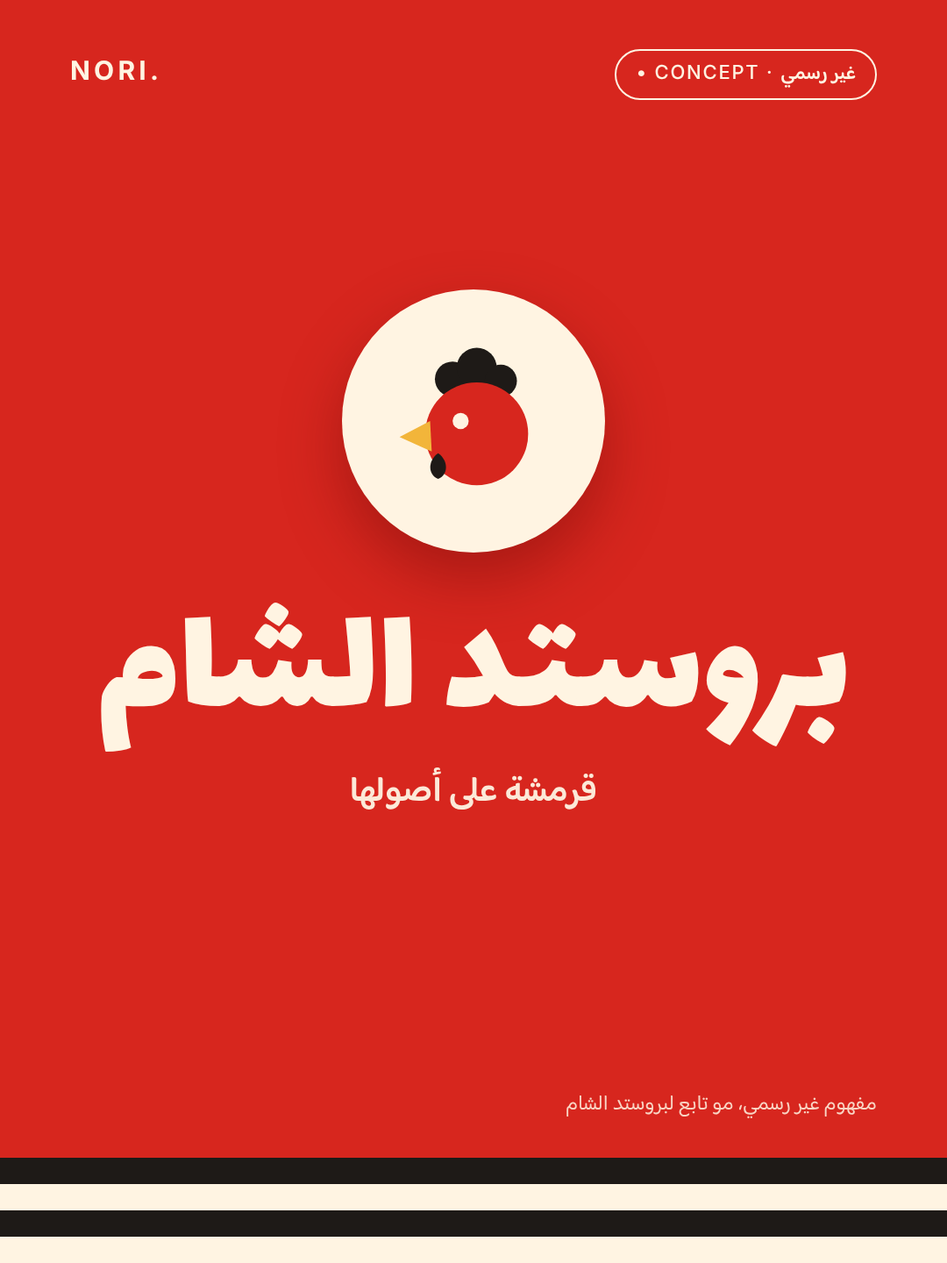
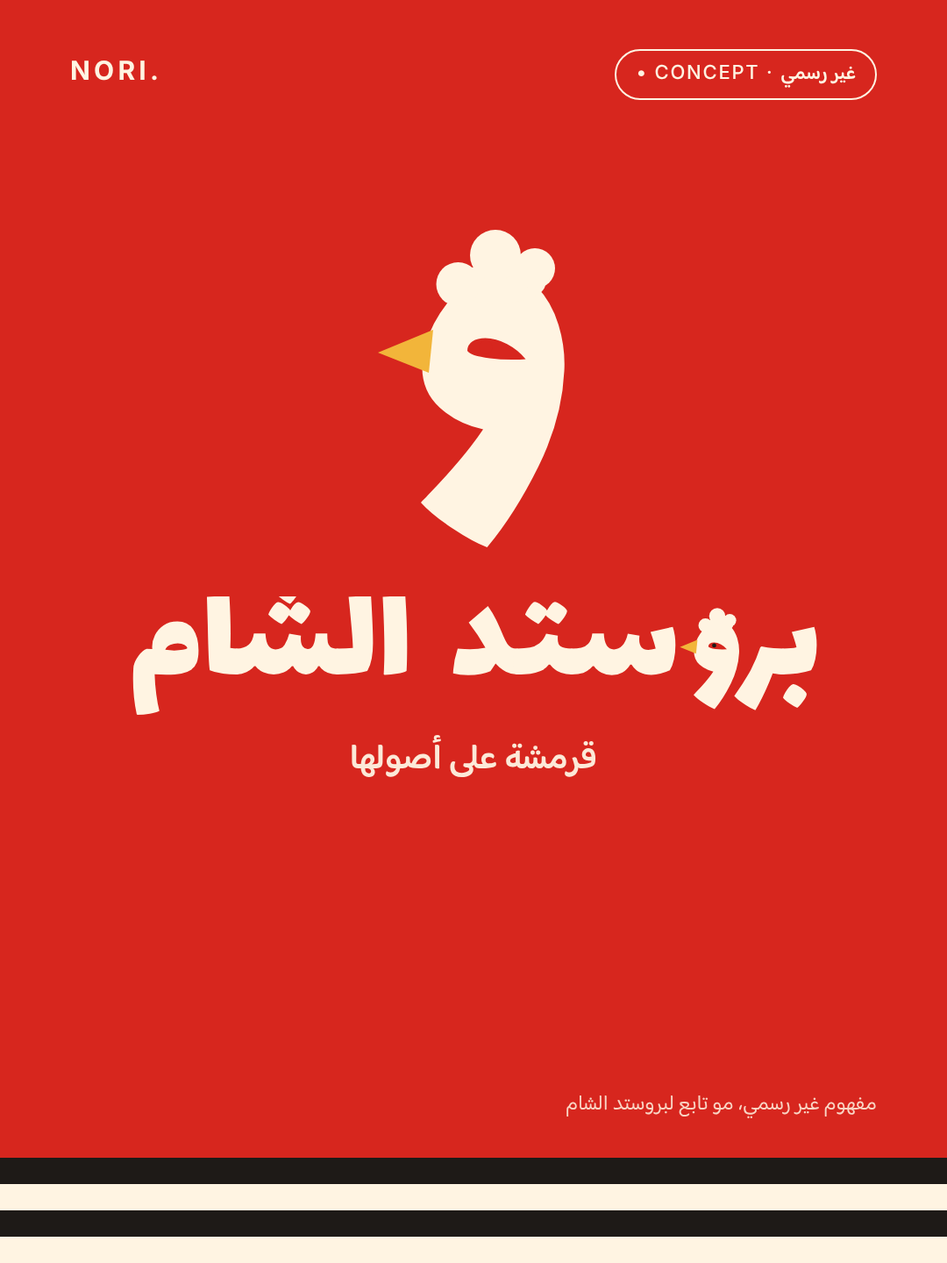
Broasted Al Sham concept v2: rooster from the waw letter
Claude-Session: https://claude.ai/code/session_01HCCxgE6Hx3Y9eVtsL6TtgU

Changed region(s): [[0.0917, 0.1875, 0.9167, 0.5938], [0.3667, 0.5938, 0.6417, 0.6562]]

diff --git a/concepts/2026-11-05-broasted-alsham/slides.html b/concepts/2026-11-05-broasted-alsham/slides.html
@@ -34,10 +34,8 @@ h2{position:absolute;top:140px;right:80px;left:80px;font:400 84px/1.15 Lalezar}
 
 <section class="slide" id="s1" style="background:var(--red);color:var(--cream)">
  <div class="nori">NORI.</div><div class="pill">• CONCEPT · <b>غير رسمي</b></div>
- <div style="position:absolute;top:330px;left:0;right:0;display:flex;flex-direction:column;align-items:center">
-  <div style="width:300px;height:300px;border-radius:50%;background:var(--cream);display:grid;place-items:center;box-shadow:0 30px 70px rgba(80,0,0,.35)">
-   <svg style="width:220px;height:220px;color:var(--red);--comb:var(--char);--eye:var(--cream)"><use href="#rooster"/></svg></div>
-  <div class="wm" style="margin-top:50px">بروستد الشام</div>
+ <div style="position:absolute;top:250px;left:0;right:0;display:flex;flex-direction:column;align-items:center">
+  <svg viewBox="-110 -500 500 780" width="250" height="390" style="display:block"><g transform="scale(1,-1)"><path d="M347 154Q342 45 288.0 -64.0Q234 -173 171 -248Q139 -236 91.5 -204.5Q44 -173 20 -146Q23 -142 27.5 -138.0Q32 -134 36 -129Q120 -42 162 21Q103 34 63.0 70.5Q23 107 23 162Q23 211 50.0 262.5Q77 314 118.5 347.5Q160 381 201 381Q250 381 284.0 346.5Q318 312 334.0 259.0Q350 206 347 154ZM227 180Q249 180 259 181Q242 202 216.5 215.5Q191 229 167 229Q149 229 137.5 221.5Q126 214 126 200Q132 189 177 183Q201 180 227 180Z" fill="#FFF4E2"/><ellipse cx="192" cy="352" rx="112" ry="44" fill="#FFF4E2"/><circle cx="105" cy="352" r="50" fill="#FFF4E2"/><circle cx="190" cy="418" r="58" fill="#FFF4E2"/><circle cx="280" cy="388" r="46" fill="#FFF4E2"/><path d="M48 248 L-78 196 L38 150 Z" fill="#F2B53A"/><circle cx="168" cy="208" r="15" fill="#D7261E"/></g></svg><div style="margin-top:40px"><svg viewBox="-180 -560 5147 900" width="820" height="143" style="display:block"><g transform="scale(1,-1)"><path d="M500 173Q500 119 487.0 85.5Q474 52 446 33Q419 14 377.0 6.0Q335 -2 270 -2Q232 -2 185 1Q187 -70 196.5 -141.0Q206 -212 219 -262Q197 -274 150.5 -281.5Q104 -289 61 -289L56 -285Q30 -163 30 -31Q30 22 34 61Q41 95 70.0 135.0Q99 175 128 184L168 182Q167 188 167 200Q167 241 187.5 282.5Q208 324 249.0 352.0Q290 380 348 380Q423 380 461.5 323.5Q500 267 500 173ZM420 189Q417 202 398.5 212.5Q380 223 351 223Q323 223 296.5 213.0Q270 203 261 177Q291 172 326 172Q360 172 387.5 177.0Q415 182 420 189Z" transform="translate(-80,0)" fill="#FFF4E2"/><path d="M271 93Q271 45 265.0 22.5Q259 0 244 0Q189 0 137.5 7.0Q86 14 51 29Q42 65 36 354L30 557L191 566Q200 417 200 292Q200 254 198 190Q223 186 244 186Q260 186 265.5 163.0Q271 140 271 93Z" transform="translate(450,0)" fill="#FFF4E2"/><path d="M750 93Q750 45 744.0 22.5Q738 0 723 0Q633 0 594 60H585Q570 31 546.5 15.5Q523 0 497 0Q470 0 445.0 15.5Q420 31 405 60H396Q373 31 338.5 15.5Q304 0 265 0Q226 0 192.0 15.0Q158 30 135 60H126Q104 33 70.5 16.5Q37 0 0 0Q-15 0 -21.0 22.5Q-27 45 -27 93Q-27 140 -21.5 163.0Q-16 186 0 186Q109 186 123 294H206Q210 231 228.0 205.5Q246 180 278 180Q322 180 343.5 212.5Q365 245 377 292L461 279Q460 271 460 257Q460 220 473.5 201.0Q487 182 509 182Q561 182 566 294H650Q650 251 654.0 229.5Q658 208 673.5 197.0Q689 186 723 186Q739 186 744.5 163.0Q750 140 750 93ZM291 570Q294 582 306.0 603.0Q318 624 332.5 640.0Q347 656 358 656Q374 656 406.5 633.0Q439 610 442 597Q444 583 421.0 550.0Q398 517 382 506Q364 514 334.0 535.0Q304 556 291 570ZM465 362Q448 369 419.0 388.5Q390 408 374 424Q364 406 348.0 387.5Q332 369 322 362Q303 370 271.5 392.0Q240 414 227 429Q232 449 255.5 482.5Q279 516 295 519Q309 522 342.5 499.0Q376 476 384 460Q397 484 413.0 501.5Q429 519 441 519Q458 519 491.5 494.5Q525 470 528 456Q530 441 506.0 407.0Q482 373 465 362Z" transform="translate(694,0)" fill="#FFF4E2"/><path d="M255 223Q255 164 246.0 115.0Q237 66 214 25Q145 3 0 0Q-15 0 -21.0 22.5Q-27 45 -27 93Q-27 140 -21.5 163.0Q-16 186 0 186Q66 186 111 190Q109 250 101.5 333.0Q94 416 86 498L80 557L241 566Q255 332 255 223Z" transform="translate(1417,0)" fill="#FFF4E2"/><path d="M37 2Q42 82 42 168Q42 329 30 557L192 566Q205 374 205 202Q205 93 201 25Q180 13 134.0 5.5Q88 -2 43 -3Z" transform="translate(1712,0)" fill="#FFF4E2"/><path d="M517 93Q517 45 511.0 22.5Q505 0 490 0Q451 0 410.5 19.5Q370 39 335 78Q323 59 298 23Q272 11 229.5 3.0Q187 -5 138 -5Q77 -5 30 8Q34 100 63 186Q115 181 152 181Q211 181 262 192Q208 288 142 373L280 490Q316 439 338.5 393.0Q361 347 391 275Q407 238 419.0 220.0Q431 202 447.0 194.0Q463 186 490 186Q506 186 511.5 163.0Q517 140 517 93Z" transform="translate(2217,0)" fill="#FFF4E2"/><path d="M418 93Q418 45 412.0 22.5Q406 0 391 0Q289 0 236 70H227Q206 40 168 25Q131 10 95.0 5.0Q59 0 0 0Q-15 0 -21.0 22.5Q-27 45 -27 93Q-27 140 -21.5 163.0Q-16 186 0 186Q55 186 92.0 193.0Q129 200 159.0 223.0Q189 246 208 292L292 279Q291 271 291 257Q291 215 313.0 200.5Q335 186 391 186Q407 186 412.5 163.0Q418 140 418 93ZM295 362Q276 370 247.0 389.5Q218 409 204 425Q194 407 178.0 388.0Q162 369 152 362Q132 371 101.0 392.5Q70 414 57 429Q63 450 87.0 485.0Q111 520 127 520Q143 520 175.0 497.5Q207 475 214 460Q228 485 243.0 502.5Q258 520 270 520Q286 520 320.5 495.5Q355 471 358 457Q360 442 336.0 408.0Q312 374 295 362Z" transform="translate(2707,0)" fill="#FFF4E2"/><path d="M745 210Q745 157 734.5 109.0Q724 61 704 29Q636 -3 572 -3Q525 -3 488.5 15.5Q452 34 430 70H421Q399 34 364.5 14.5Q330 -5 288 -5Q249 -5 214.5 12.5Q180 30 160 60H151Q118 23 83.5 11.5Q49 0 0 0Q-15 0 -21.0 22.5Q-27 45 -27 93Q-27 140 -21.5 163.0Q-16 186 0 186Q41 186 68.5 191.5Q96 197 119.0 220.5Q142 244 148 294H231Q236 180 303 180Q337 180 363.5 207.0Q390 234 403 292L487 279Q485 261 485 253Q485 176 550 176Q571 176 603 185Q594 223 581.5 260.0Q569 297 566 305L726 342Q745 285 745 210Z" transform="translate(3098,0)" fill="#FFF4E2"/><path d="M332 93Q332 45 326.0 22.5Q320 0 305 0Q278 0 231 8Q212 -44 177 -121Q154 -171 132.5 -210.5Q111 -250 106 -256Q69 -243 18 -207Q-24 -178 -45 -154Q15 -72 60 7Q110 96 142 195L151 201Q193 192 237.5 189.0Q282 186 305 186Q321 186 326.5 163.0Q332 140 332 93Z" transform="translate(4310,0)" fill="#FFF4E2"/><path d="M242 211Q242 157 231.5 109.0Q221 61 201 29Q110 0 0 0Q-15 0 -21.0 22.5Q-27 45 -27 93Q-27 140 -21.5 163.0Q-16 186 0 186Q63 186 97 195Q87 237 63 305L224 342Q242 285 242 211ZM169 -137Q173 -152 146.5 -189.5Q120 -227 102 -239Q81 -231 47.0 -207.5Q13 -184 0 -167Q3 -154 15.5 -131.5Q28 -109 44.0 -90.5Q60 -72 72 -70Q83 -68 105.5 -80.0Q128 -92 147.5 -109.5Q167 -127 169 -137Z" transform="translate(4615,0)" fill="#FFF4E2"/><g transform="translate(3953,0)"><path d="M347 154Q342 45 288.0 -64.0Q234 -173 171 -248Q139 -236 91.5 -204.5Q44 -173 20 -146Q23 -142 27.5 -138.0Q32 -134 36 -129Q120 -42 162 21Q103 34 63.0 70.5Q23 107 23 162Q23 211 50.0 262.5Q77 314 118.5 347.5Q160 381 201 381Q250 381 284.0 346.5Q318 312 334.0 259.0Q350 206 347 154ZM227 180Q249 180 259 181Q242 202 216.5 215.5Q191 229 167 229Q149 229 137.5 221.5Q126 214 126 200Q132 189 177 183Q201 180 227 180Z" fill="#FFF4E2"/><ellipse cx="192" cy="352" rx="112" ry="44" fill="#FFF4E2"/><circle cx="105" cy="352" r="50" fill="#FFF4E2"/><circle cx="190" cy="418" r="58" fill="#FFF4E2"/><circle cx="280" cy="388" r="46" fill="#FFF4E2"/><path d="M48 248 L-78 196 L38 150 Z" fill="#F2B53A"/><circle cx="168" cy="208" r="15" fill="#1E1A17"/></g></g></svg></div>
   <div style="font:600 40px Baloo;margin-top:10px;opacity:.95">قرمشة على أصولها</div>
  </div>
  <div style="position:absolute;bottom:160px;right:80px;left:80px;font:400 24px Baloo;opacity:.85">مفهوم غير رسمي، مو تابع لبروستد الشام</div>
@@ -46,16 +44,15 @@ h2{position:absolute;top:140px;right:80px;left:80px;font:400 84px/1.15 Lalezar}
 
 <section class="slide" id="s2">
  <div class="cnt">02 / 05</div><div class="lbl">الرمز والألوان</div>
- <h2>نفس الديك… بس أنظف</h2>
- <div class="sub">الديك اللي يعرفونه الناس باقي. اللي راح هو الزحمة: كان فيه 3 أسطر نص بالعربي والإنجليزي، وصار سطر واحد.</div>
+ <h2>الديك طالع من الواو</h2>
+ <div class="sub">الواو بكلمة «بروستد» شكلها أصلًا راس ديك: العين صارت عينه، والذيل صار الدلّاية. زدنا العرف والمنقار بس. الديك اللي يعرفونه الناس باقي، بس صار جزء من الاسم.</div>
  <div style="position:absolute;top:440px;right:80px;left:80px;display:flex;align-items:center;justify-content:space-between">
   <div class="card" style="width:380px;height:380px;padding:36px;display:flex;flex-direction:column;justify-content:center;gap:16px;background:#f4ece0;box-shadow:none">
    <b style="font:600 30px Baloo;color:var(--grey)">قبل</b>
    <span style="font:400 28px/1.6 Baloo;color:#6d625a">ديك كرتوني مرسوم<br>جملة «دلّع كرشك»<br>الاسم بالعربي<br>الاسم بالإنجليزي<br>أحمر وأخضر وأسود</span></div>
   <svg width="60" height="40" viewBox="0 0 60 40"><path d="M56 20H6m14-14L6 20l14 14" fill="none" stroke="var(--red)" stroke-width="5" stroke-linecap="round" stroke-linejoin="round"/></svg>
   <div class="card" style="width:380px;height:380px;display:flex;flex-direction:column;align-items:center;justify-content:center;gap:16px">
-   <div style="width:190px;height:190px;border-radius:50%;background:var(--red);display:grid;place-items:center"><svg style="width:140px;height:140px;color:var(--cream);--comb:var(--char)"><use href="#rooster"/></svg></div>
-   <span style="font:400 64px Lalezar;color:var(--red)">بروستد الشام</span></div>
+   <svg viewBox="-110 -500 500 780" width="150" height="234" style="display:block"><g transform="scale(1,-1)"><path d="M347 154Q342 45 288.0 -64.0Q234 -173 171 -248Q139 -236 91.5 -204.5Q44 -173 20 -146Q23 -142 27.5 -138.0Q32 -134 36 -129Q120 -42 162 21Q103 34 63.0 70.5Q23 107 23 162Q23 211 50.0 262.5Q77 314 118.5 347.5Q160 381 201 381Q250 381 284.0 346.5Q318 312 334.0 259.0Q350 206 347 154ZM227 180Q249 180 259 181Q242 202 216.5 215.5Q191 229 167 229Q149 229 137.5 221.5Q126 214 126 200Q132 189 177 183Q201 180 227 180Z" fill="#D7261E"/><ellipse cx="192" cy="352" rx="112" ry="44" fill="#D7261E"/><circle cx="105" cy="352" r="50" fill="#D7261E"/><circle cx="190" cy="418" r="58" fill="#D7261E"/><circle cx="280" cy="388" r="46" fill="#D7261E"/><path d="M48 248 L-78 196 L38 150 Z" fill="#F2B53A"/><circle cx="168" cy="208" r="15" fill="#1E1A17"/></g></svg><svg viewBox="-180 -560 5147 900" width="320" height="55" style="display:block"><g transform="scale(1,-1)"><path d="M500 173Q500 119 487.0 85.5Q474 52 446 33Q419 14 377.0 6.0Q335 -2 270 -2Q232 -2 185 1Q187 -70 196.5 -141.0Q206 -212 219 -262Q197 -274 150.5 -281.5Q104 -289 61 -289L56 -285Q30 -163 30 -31Q30 22 34 61Q41 95 70.0 135.0Q99 175 128 184L168 182Q167 188 167 200Q167 241 187.5 282.5Q208 324 249.0 352.0Q290 380 348 380Q423 380 461.5 323.5Q500 267 500 173ZM420 189Q417 202 398.5 212.5Q380 223 351 223Q323 223 296.5 213.0Q270 203 261 177Q291 172 326 172Q360 172 387.5 177.0Q415 182 420 189Z" transform="translate(-80,0)" fill="#D7261E"/><path d="M271 93Q271 45 265.0 22.5Q259 0 244 0Q189 0 137.5 7.0Q86 14 51 29Q42 65 36 354L30 557L191 566Q200 417 200 292Q200 254 198 190Q223 186 244 186Q260 186 265.5 163.0Q271 140 271 93Z" transform="translate(450,0)" fill="#D7261E"/><path d="M750 93Q750 45 744.0 22.5Q738 0 723 0Q633 0 594 60H585Q570 31 546.5 15.5Q523 0 497 0Q470 0 445.0 15.5Q420 31 405 60H396Q373 31 338.5 15.5Q304 0 265 0Q226 0 192.0 15.0Q158 30 135 60H126Q104 33 70.5 16.5Q37 0 0 0Q-15 0 -21.0 22.5Q-27 45 -27 93Q-27 140 -21.5 163.0Q-16 186 0 186Q109 186 123 294H206Q210 231 228.0 205.5Q246 180 278 180Q322 180 343.5 212.5Q365 245 377 292L461 279Q460 271 460 257Q460 220 473.5 201.0Q487 182 509 182Q561 182 566 294H650Q650 251 654.0 229.5Q658 208 673.5 197.0Q689 186 723 186Q739 186 744.5 163.0Q750 140 750 93ZM291 570Q294 582 306.0 603.0Q318 624 332.5 640.0Q347 656 358 656Q374 656 406.5 633.0Q439 610 442 597Q444 583 421.0 550.0Q398 517 382 506Q364 514 334.0 535.0Q304 556 291 570ZM465 362Q448 369 419.0 388.5Q390 408 374 424Q364 406 348.0 387.5Q332 369 322 362Q303 370 271.5 392.0Q240 414 227 429Q232 449 255.5 482.5Q279 516 295 519Q309 522 342.5 499.0Q376 476 384 460Q397 484 413.0 501.5Q429 519 441 519Q458 519 491.5 494.5Q525 470 528 456Q530 441 506.0 407.0Q482 373 465 362Z" transform="translate(694,0)" fill="#D7261E"/><path d="M255 223Q255 164 246.0 115.0Q237 66 214 25Q145 3 0 0Q-15 0 -21.0 22.5Q-27 45 -27 93Q-27 140 -21.5 163.0Q-16 186 0 186Q66 186 111 190Q109 250 101.5 333.0Q94 416 86 498L80 557L241 566Q255 332 255 223Z" transform="translate(1417,0)" fill="#D7261E"/><path d="M37 2Q42 82 42 168Q42 329 30 557L192 566Q205 374 205 202Q205 93 201 25Q180 13 134.0 5.5Q88 -2 43 -3Z" transform="translate(1712,0)" fill="#D7261E"/><path d="M517 93Q517 45 511.0 22.5Q505 0 490 0Q451 0 410.5 19.5Q370 39 335 78Q323 59 298 23Q272 11 229.5 3.0Q187 -5 138 -5Q77 -5 30 8Q34 100 63 186Q115 181 152 181Q211 181 262 192Q208 288 142 373L280 490Q316 439 338.5 393.0Q361 347 391 275Q407 238 419.0 220.0Q431 202 447.0 194.0Q463 186 490 186Q506 186 511.5 163.0Q517 140 517 93Z" transform="translate(2217,0)" fill="#D7261E"/><path d="M418 93Q418 45 412.0 22.5Q406 0 391 0Q289 0 236 70H227Q206 40 168 25Q131 10 95.0 5.0Q59 0 0 0Q-15 0 -21.0 22.5Q-27 45 -27 93Q-27 140 -21.5 163.0Q-16 186 0 186Q55 186 92.0 193.0Q129 200 159.0 223.0Q189 246 208 292L292 279Q291 271 291 257Q291 215 313.0 200.5Q335 186 391 186Q407 186 412.5 163.0Q418 140 418 93ZM295 362Q276 370 247.0 389.5Q218 409 204 425Q194 407 178.0 388.0Q162 369 152 362Q132 371 101.0 392.5Q70 414 57 429Q63 450 87.0 485.0Q111 520 127 520Q143 520 175.0 497.5Q207 475 214 460Q228 485 243.0 502.5Q258 520 270 520Q286 520 320.5 495.5Q355 471 358 457Q360 442 336.0 408.0Q312 374 295 362Z" transform="translate(2707,0)" fill="#D7261E"/><path d="M745 210Q745 157 734.5 109.0Q724 61 704 29Q636 -3 572 -3Q525 -3 488.5 15.5Q452 34 430 70H421Q399 34 364.5 14.5Q330 -5 288 -5Q249 -5 214.5 12.5Q180 30 160 60H151Q118 23 83.5 11.5Q49 0 0 0Q-15 0 -21.0 22.5Q-27 45 -27 93Q-27 140 -21.5 163.0Q-16 186 0 186Q41 186 68.5 191.5Q96 197 119.0 220.5Q142 244 148 294H231Q236 180 303 180Q337 180 363.5 207.0Q390 234 403 292L487 279Q485 261 485 253Q485 176 550 176Q571 176 603 185Q594 223 581.5 260.0Q569 297 566 305L726 342Q745 285 745 210Z" transform="translate(3098,0)" fill="#D7261E"/><path d="M332 93Q332 45 326.0 22.5Q320 0 305 0Q278 0 231 8Q212 -44 177 -121Q154 -171 132.5 -210.5Q111 -250 106 -256Q69 -243 18 -207Q-24 -178 -45 -154Q15 -72 60 7Q110 96 142 195L151 201Q193 192 237.5 189.0Q282 186 305 186Q321 186 326.5 163.0Q332 140 332 93Z" transform="translate(4310,0)" fill="#D7261E"/><path d="M242 211Q242 157 231.5 109.0Q221 61 201 29Q110 0 0 0Q-15 0 -21.0 22.5Q-27 45 -27 93Q-27 140 -21.5 163.0Q-16 186 0 186Q63 186 97 195Q87 237 63 305L224 342Q242 285 242 211ZM169 -137Q173 -152 146.5 -189.5Q120 -227 102 -239Q81 -231 47.0 -207.5Q13 -184 0 -167Q3 -154 15.5 -131.5Q28 -109 44.0 -90.5Q60 -72 72 -70Q83 -68 105.5 -80.0Q128 -92 147.5 -109.5Q167 -127 169 -137Z" transform="translate(4615,0)" fill="#D7261E"/><g transform="translate(3953,0)"><path d="M347 154Q342 45 288.0 -64.0Q234 -173 171 -248Q139 -236 91.5 -204.5Q44 -173 20 -146Q23 -142 27.5 -138.0Q32 -134 36 -129Q120 -42 162 21Q103 34 63.0 70.5Q23 107 23 162Q23 211 50.0 262.5Q77 314 118.5 347.5Q160 381 201 381Q250 381 284.0 346.5Q318 312 334.0 259.0Q350 206 347 154ZM227 180Q249 180 259 181Q242 202 216.5 215.5Q191 229 167 229Q149 229 137.5 221.5Q126 214 126 200Q132 189 177 183Q201 180 227 180Z" fill="#D7261E"/><ellipse cx="192" cy="352" rx="112" ry="44" fill="#D7261E"/><circle cx="105" cy="352" r="50" fill="#D7261E"/><circle cx="190" cy="418" r="58" fill="#D7261E"/><circle cx="280" cy="388" r="46" fill="#D7261E"/><path d="M48 248 L-78 196 L38 150 Z" fill="#F2B53A"/><circle cx="168" cy="208" r="15" fill="#1E1A17"/></g></g></svg></div>
  </div>
  <div style="position:absolute;top:880px;right:80px;left:80px;display:grid;grid-template-columns:2fr 1fr 1fr 1fr;gap:16px;height:200px">
   <div style="background:var(--red);border-radius:24px;padding:22px;color:var(--cream);display:flex;flex-direction:column;justify-content:flex-end"><b style="font:600 28px Baloo">أحمر القرمشة</b><span style="font:500 18px Inter;direction:ltr;text-align:right">#D7261E</span></div>
@@ -82,9 +79,7 @@ h2{position:absolute;top:140px;right:80px;left:80px;font:400 84px/1.15 Lalezar}
   </div>
   <div style="position:absolute;top:190px;left:0;right:0;height:450px;background:var(--red);border-radius:14px 14px 30px 30px;box-shadow:0 50px 80px rgba(120,20,10,.3);overflow:hidden">
    <div style="position:absolute;top:0;left:0;right:0;height:80px;background:repeating-linear-gradient(180deg,var(--char) 0 20px,var(--cream) 20px 40px)"></div>
-   <div style="position:absolute;top:140px;left:0;right:0;display:flex;align-items:center;justify-content:center;gap:28px;color:var(--cream)">
-    <div style="width:150px;height:150px;border-radius:50%;background:var(--cream);display:grid;place-items:center"><svg style="width:115px;height:115px;color:var(--red);--comb:var(--char);--eye:var(--cream)"><use href="#rooster"/></svg></div>
-    <span style="font:400 92px Lalezar;white-space:nowrap">بروستد الشام</span></div>
+   <div style="position:absolute;top:120px;left:0;right:0;display:flex;justify-content:center"><svg viewBox="-180 -560 5147 900" width="600" height="104" style="display:block"><g transform="scale(1,-1)"><path d="M500 173Q500 119 487.0 85.5Q474 52 446 33Q419 14 377.0 6.0Q335 -2 270 -2Q232 -2 185 1Q187 -70 196.5 -141.0Q206 -212 219 -262Q197 -274 150.5 -281.5Q104 -289 61 -289L56 -285Q30 -163 30 -31Q30 22 34 61Q41 95 70.0 135.0Q99 175 128 184L168 182Q167 188 167 200Q167 241 187.5 282.5Q208 324 249.0 352.0Q290 380 348 380Q423 380 461.5 323.5Q500 267 500 173ZM420 189Q417 202 398.5 212.5Q380 223 351 223Q323 223 296.5 213.0Q270 203 261 177Q291 172 326 172Q360 172 387.5 177.0Q415 182 420 189Z" transform="translate(-80,0)" fill="#FFF4E2"/><path d="M271 93Q271 45 265.0 22.5Q259 0 244 0Q189 0 137.5 7.0Q86 14 51 29Q42 65 36 354L30 557L191 566Q200 417 200 292Q200 254 198 190Q223 186 244 186Q260 186 265.5 163.0Q271 140 271 93Z" transform="translate(450,0)" fill="#FFF4E2"/><path d="M750 93Q750 45 744.0 22.5Q738 0 723 0Q633 0 594 60H585Q570 31 546.5 15.5Q523 0 497 0Q470 0 445.0 15.5Q420 31 405 60H396Q373 31 338.5 15.5Q304 0 265 0Q226 0 192.0 15.0Q158 30 135 60H126Q104 33 70.5 16.5Q37 0 0 0Q-15 0 -21.0 22.5Q-27 45 -27 93Q-27 140 -21.5 163.0Q-16 186 0 186Q109 186 123 294H206Q210 231 228.0 205.5Q246 180 278 180Q322 180 343.5 212.5Q365 245 377 292L461 279Q460 271 460 257Q460 220 473.5 201.0Q487 182 509 182Q561 182 566 294H650Q650 251 654.0 229.5Q658 208 673.5 197.0Q689 186 723 186Q739 186 744.5 163.0Q750 140 750 93ZM291 570Q294 582 306.0 603.0Q318 624 332.5 640.0Q347 656 358 656Q374 656 406.5 633.0Q439 610 442 597Q444 583 421.0 550.0Q398 517 382 506Q364 514 334.0 535.0Q304 556 291 570ZM465 362Q448 369 419.0 388.5Q390 408 374 424Q364 406 348.0 387.5Q332 369 322 362Q303 370 271.5 392.0Q240 414 227 429Q232 449 255.5 482.5Q279 516 295 519Q309 522 342.5 499.0Q376 476 384 460Q397 484 413.0 501.5Q429 519 441 519Q458 519 491.5 494.5Q525 470 528 456Q530 441 506.0 407.0Q482 373 465 362Z" transform="translate(694,0)" fill="#FFF4E2"/><path d="M255 223Q255 164 246.0 115.0Q237 66 214 25Q145 3 0 0Q-15 0 -21.0 22.5Q-27 45 -27 93Q-27 140 -21.5 163.0Q-16 186 0 186Q66 186 111 190Q109 250 101.5 333.0Q94 416 86 498L80 557L241 566Q255 332 255 223Z" transform="translate(1417,0)" fill="#FFF4E2"/><path d="M37 2Q42 82 42 168Q42 329 30 557L192 566Q205 374 205 202Q205 93 201 25Q180 13 134.0 5.5Q88 -2 43 -3Z" transform="translate(1712,0)" fill="#FFF4E2"/><path d="M517 93Q517 45 511.0 22.5Q505 0 490 0Q451 0 410.5 19.5Q370 39 335 78Q323 59 298 23Q272 11 229.5 3.0Q187 -5 138 -5Q77 -5 30 8Q34 100 63 186Q115 181 152 181Q211 181 262 192Q208 288 142 373L280 490Q316 439 338.5 393.0Q361 347 391 275Q407 238 419.0 220.0Q431 202 447.0 194.0Q463 186 490 186Q506 186 511.5 163.0Q517 140 517 93Z" transform="translate(2217,0)" fill="#FFF4E2"/><path d="M418 93Q418 45 412.0 22.5Q406 0 391 0Q289 0 236 70H227Q206 40 168 25Q131 10 95.0 5.0Q59 0 0 0Q-15 0 -21.0 22.5Q-27 45 -27 93Q-27 140 -21.5 163.0Q-16 186 0 186Q55 186 92.0 193.0Q129 200 159.0 223.0Q189 246 208 292L292 279Q291 271 291 257Q291 215 313.0 200.5Q335 186 391 186Q407 186 412.5 163.0Q418 140 418 93ZM295 362Q276 370 247.0 389.5Q218 409 204 425Q194 407 178.0 388.0Q162 369 152 362Q132 371 101.0 392.5Q70 414 57 429Q63 450 87.0 485.0Q111 520 127 520Q143 520 175.0 497.5Q207 475 214 460Q228 485 243.0 502.5Q258 520 270 520Q286 520 320.5 495.5Q355 471 358 457Q360 442 336.0 408.0Q312 374 295 362Z" transform="translate(2707,0)" fill="#FFF4E2"/><path d="M745 210Q745 157 734.5 109.0Q724 61 704 29Q636 -3 572 -3Q525 -3 488.5 15.5Q452 34 430 70H421Q399 34 364.5 14.5Q330 -5 288 -5Q249 -5 214.5 12.5Q180 30 160 60H151Q118 23 83.5 11.5Q49 0 0 0Q-15 0 -21.0 22.5Q-27 45 -27 93Q-27 140 -21.5 163.0Q-16 186 0 186Q41 186 68.5 191.5Q96 197 119.0 220.5Q142 244 148 294H231Q236 180 303 180Q337 180 363.5 207.0Q390 234 403 292L487 279Q485 261 485 253Q485 176 550 176Q571 176 603 185Q594 223 581.5 260.0Q569 297 566 305L726 342Q745 285 745 210Z" transform="translate(3098,0)" fill="#FFF4E2"/><path d="M332 93Q332 45 326.0 22.5Q320 0 305 0Q278 0 231 8Q212 -44 177 -121Q154 -171 132.5 -210.5Q111 -250 106 -256Q69 -243 18 -207Q-24 -178 -45 -154Q15 -72 60 7Q110 96 142 195L151 201Q193 192 237.5 189.0Q282 186 305 186Q321 186 326.5 163.0Q332 140 332 93Z" transform="translate(4310,0)" fill="#FFF4E2"/><path d="M242 211Q242 157 231.5 109.0Q221 61 201 29Q110 0 0 0Q-15 0 -21.0 22.5Q-27 45 -27 93Q-27 140 -21.5 163.0Q-16 186 0 186Q63 186 97 195Q87 237 63 305L224 342Q242 285 242 211ZM169 -137Q173 -152 146.5 -189.5Q120 -227 102 -239Q81 -231 47.0 -207.5Q13 -184 0 -167Q3 -154 15.5 -131.5Q28 -109 44.0 -90.5Q60 -72 72 -70Q83 -68 105.5 -80.0Q128 -92 147.5 -109.5Q167 -127 169 -137Z" transform="translate(4615,0)" fill="#FFF4E2"/><g transform="translate(3953,0)"><path d="M347 154Q342 45 288.0 -64.0Q234 -173 171 -248Q139 -236 91.5 -204.5Q44 -173 20 -146Q23 -142 27.5 -138.0Q32 -134 36 -129Q120 -42 162 21Q103 34 63.0 70.5Q23 107 23 162Q23 211 50.0 262.5Q77 314 118.5 347.5Q160 381 201 381Q250 381 284.0 346.5Q318 312 334.0 259.0Q350 206 347 154ZM227 180Q249 180 259 181Q242 202 216.5 215.5Q191 229 167 229Q149 229 137.5 221.5Q126 214 126 200Q132 189 177 183Q201 180 227 180Z" fill="#FFF4E2"/><ellipse cx="192" cy="352" rx="112" ry="44" fill="#FFF4E2"/><circle cx="105" cy="352" r="50" fill="#FFF4E2"/><circle cx="190" cy="418" r="58" fill="#FFF4E2"/><circle cx="280" cy="388" r="46" fill="#FFF4E2"/><path d="M48 248 L-78 196 L38 150 Z" fill="#F2B53A"/><circle cx="168" cy="208" r="15" fill="#1E1A17"/></g></g></svg></div>
    <div style="position:absolute;bottom:40px;left:0;right:0;text-align:center;font:600 30px Baloo;color:var(--cream);opacity:.9">قرمشة على أصولها</div>
   </div>
  </div>
@@ -96,8 +91,8 @@ h2{position:absolute;top:140px;right:80px;left:80px;font:400 84px/1.15 Lalezar}
  <h2>يبين بالتطبيق وبالريل</h2>
  <div class="sub">أغلب الطلبات من طلبات وكيتا. الديك لازم ينقرى بحجم أيقونة، والريل لازم يعرّف بنفسه قبل لا تفتحه.</div>
  <div class="card" style="position:absolute;top:420px;right:80px;left:80px;padding:28px 32px;display:flex;align-items:center;gap:26px">
-  <div style="width:130px;height:130px;border-radius:32px;background:var(--red);display:grid;place-items:center"><svg style="width:100px;height:100px;color:var(--cream);--comb:var(--char)"><use href="#rooster"/></svg></div>
-  <div style="flex:1"><b style="font:400 50px Lalezar">بروستد الشام</b><div style="font:400 26px Baloo;color:var(--grey)">بروستد · كرسبي · مشاوي · السالمية وحولي</div></div>
+  <div style="width:130px;height:130px;border-radius:32px;background:var(--red);display:grid;place-items:center"><svg viewBox="-110 -500 500 780" width="62" height="96" style="display:block"><g transform="scale(1,-1)"><path d="M347 154Q342 45 288.0 -64.0Q234 -173 171 -248Q139 -236 91.5 -204.5Q44 -173 20 -146Q23 -142 27.5 -138.0Q32 -134 36 -129Q120 -42 162 21Q103 34 63.0 70.5Q23 107 23 162Q23 211 50.0 262.5Q77 314 118.5 347.5Q160 381 201 381Q250 381 284.0 346.5Q318 312 334.0 259.0Q350 206 347 154ZM227 180Q249 180 259 181Q242 202 216.5 215.5Q191 229 167 229Q149 229 137.5 221.5Q126 214 126 200Q132 189 177 183Q201 180 227 180Z" fill="#FFF4E2"/><ellipse cx="192" cy="352" rx="112" ry="44" fill="#FFF4E2"/><circle cx="105" cy="352" r="50" fill="#FFF4E2"/><circle cx="190" cy="418" r="58" fill="#FFF4E2"/><circle cx="280" cy="388" r="46" fill="#FFF4E2"/><path d="M48 248 L-78 196 L38 150 Z" fill="#F2B53A"/><circle cx="168" cy="208" r="15" fill="#D7261E"/></g></svg></div>
+  <div style="flex:1"><div style="margin-bottom:4px"><svg viewBox="-180 -560 5147 900" width="330" height="57" style="display:block"><g transform="scale(1,-1)"><path d="M500 173Q500 119 487.0 85.5Q474 52 446 33Q419 14 377.0 6.0Q335 -2 270 -2Q232 -2 185 1Q187 -70 196.5 -141.0Q206 -212 219 -262Q197 -274 150.5 -281.5Q104 -289 61 -289L56 -285Q30 -163 30 -31Q30 22 34 61Q41 95 70.0 135.0Q99 175 128 184L168 182Q167 188 167 200Q167 241 187.5 282.5Q208 324 249.0 352.0Q290 380 348 380Q423 380 461.5 323.5Q500 267 500 173ZM420 189Q417 202 398.5 212.5Q380 223 351 223Q323 223 296.5 213.0Q270 203 261 177Q291 172 326 172Q360 172 387.5 177.0Q415 182 420 189Z" transform="translate(-80,0)" fill="#D7261E"/><path d="M271 93Q271 45 265.0 22.5Q259 0 244 0Q189 0 137.5 7.0Q86 14 51 29Q42 65 36 354L30 557L191 566Q200 417 200 292Q200 254 198 190Q223 186 244 186Q260 186 265.5 163.0Q271 140 271 93Z" transform="translate(450,0)" fill="#D7261E"/><path d="M750 93Q750 45 744.0 22.5Q738 0 723 0Q633 0 594 60H585Q570 31 546.5 15.5Q523 0 497 0Q470 0 445.0 15.5Q420 31 405 60H396Q373 31 338.5 15.5Q304 0 265 0Q226 0 192.0 15.0Q158 30 135 60H126Q104 33 70.5 16.5Q37 0 0 0Q-15 0 -21.0 22.5Q-27 45 -27 93Q-27 140 -21.5 163.0Q-16 186 0 186Q109 186 123 294H206Q210 231 228.0 205.5Q246 180 278 180Q322 180 343.5 212.5Q365 245 377 292L461 279Q460 271 460 257Q460 220 473.5 201.0Q487 182 509 182Q561 182 566 294H650Q650 251 654.0 229.5Q658 208 673.5 197.0Q689 186 723 186Q739 186 744.5 163.0Q750 140 750 93ZM291 570Q294 582 306.0 603.0Q318 624 332.5 640.0Q347 656 358 656Q374 656 406.5 633.0Q439 610 442 597Q444 583 421.0 550.0Q398 517 382 506Q364 514 334.0 535.0Q304 556 291 570ZM465 362Q448 369 419.0 388.5Q390 408 374 424Q364 406 348.0 387.5Q332 369 322 362Q303 370 271.5 392.0Q240 414 227 429Q232 449 255.5 482.5Q279 516 295 519Q309 522 342.5 499.0Q376 476 384 460Q397 484 413.0 501.5Q429 519 441 519Q458 519 491.5 494.5Q525 470 528 456Q530 441 506.0 407.0Q482 373 465 362Z" transform="translate(694,0)" fill="#D7261E"/><path d="M255 223Q255 164 246.0 115.0Q237 66 214 25Q145 3 0 0Q-15 0 -21.0 22.5Q-27 45 -27 93Q-27 140 -21.5 163.0Q-16 186 0 186Q66 186 111 190Q109 250 101.5 333.0Q94 416 86 498L80 557L241 566Q255 332 255 223Z" transform="translate(1417,0)" fill="#D7261E"/><path d="M37 2Q42 82 42 168Q42 329 30 557L192 566Q205 374 205 202Q205 93 201 25Q180 13 134.0 5.5Q88 -2 43 -3Z" transform="translate(1712,0)" fill="#D7261E"/><path d="M517 93Q517 45 511.0 22.5Q505 0 490 0Q451 0 410.5 19.5Q370 39 335 78Q323 59 298 23Q272 11 229.5 3.0Q187 -5 138 -5Q77 -5 30 8Q34 100 63 186Q115 181 152 181Q211 181 262 192Q208 288 142 373L280 490Q316 439 338.5 393.0Q361 347 391 275Q407 238 419.0 220.0Q431 202 447.0 194.0Q463 186 490 186Q506 186 511.5 163.0Q517 140 517 93Z" transform="translate(2217,0)" fill="#D7261E"/><path d="M418 93Q418 45 412.0 22.5Q406 0 391 0Q289 0 236 70H227Q206 40 168 25Q131 10 95.0 5.0Q59 0 0 0Q-15 0 -21.0 22.5Q-27 45 -27 93Q-27 140 -21.5 163.0Q-16 186 0 186Q55 186 92.0 193.0Q129 200 159.0 223.0Q189 246 208 292L292 279Q291 271 291 257Q291 215 313.0 200.5Q335 186 391 186Q407 186 412.5 163.0Q418 140 418 93ZM295 362Q276 370 247.0 389.5Q218 409 204 425Q194 407 178.0 388.0Q162 369 152 362Q132 371 101.0 392.5Q70 414 57 429Q63 450 87.0 485.0Q111 520 127 520Q143 520 175.0 497.5Q207 475 214 460Q228 485 243.0 502.5Q258 520 270 520Q286 520 320.5 495.5Q355 471 358 457Q360 442 336.0 408.0Q312 374 295 362Z" transform="translate(2707,0)" fill="#D7261E"/><path d="M745 210Q745 157 734.5 109.0Q724 61 704 29Q636 -3 572 -3Q525 -3 488.5 15.5Q452 34 430 70H421Q399 34 364.5 14.5Q330 -5 288 -5Q249 -5 214.5 12.5Q180 30 160 60H151Q118 23 83.5 11.5Q49 0 0 0Q-15 0 -21.0 22.5Q-27 45 -27 93Q-27 140 -21.5 163.0Q-16 186 0 186Q41 186 68.5 191.5Q96 197 119.0 220.5Q142 244 148 294H231Q236 180 303 180Q337 180 363.5 207.0Q390 234 403 292L487 279Q485 261 485 253Q485 176 550 176Q571 176 603 185Q594 223 581.5 260.0Q569 297 566 305L726 342Q745 285 745 210Z" transform="translate(3098,0)" fill="#D7261E"/><path d="M332 93Q332 45 326.0 22.5Q320 0 305 0Q278 0 231 8Q212 -44 177 -121Q154 -171 132.5 -210.5Q111 -250 106 -256Q69 -243 18 -207Q-24 -178 -45 -154Q15 -72 60 7Q110 96 142 195L151 201Q193 192 237.5 189.0Q282 186 305 186Q321 186 326.5 163.0Q332 140 332 93Z" transform="translate(4310,0)" fill="#D7261E"/><path d="M242 211Q242 157 231.5 109.0Q221 61 201 29Q110 0 0 0Q-15 0 -21.0 22.5Q-27 45 -27 93Q-27 140 -21.5 163.0Q-16 186 0 186Q63 186 97 195Q87 237 63 305L224 342Q242 285 242 211ZM169 -137Q173 -152 146.5 -189.5Q120 -227 102 -239Q81 -231 47.0 -207.5Q13 -184 0 -167Q3 -154 15.5 -131.5Q28 -109 44.0 -90.5Q60 -72 72 -70Q83 -68 105.5 -80.0Q128 -92 147.5 -109.5Q167 -127 169 -137Z" transform="translate(4615,0)" fill="#D7261E"/><g transform="translate(3953,0)"><path d="M347 154Q342 45 288.0 -64.0Q234 -173 171 -248Q139 -236 91.5 -204.5Q44 -173 20 -146Q23 -142 27.5 -138.0Q32 -134 36 -129Q120 -42 162 21Q103 34 63.0 70.5Q23 107 23 162Q23 211 50.0 262.5Q77 314 118.5 347.5Q160 381 201 381Q250 381 284.0 346.5Q318 312 334.0 259.0Q350 206 347 154ZM227 180Q249 180 259 181Q242 202 216.5 215.5Q191 229 167 229Q149 229 137.5 221.5Q126 214 126 200Q132 189 177 183Q201 180 227 180Z" fill="#D7261E"/><ellipse cx="192" cy="352" rx="112" ry="44" fill="#D7261E"/><circle cx="105" cy="352" r="50" fill="#D7261E"/><circle cx="190" cy="418" r="58" fill="#D7261E"/><circle cx="280" cy="388" r="46" fill="#D7261E"/><path d="M48 248 L-78 196 L38 150 Z" fill="#F2B53A"/><circle cx="168" cy="208" r="15" fill="#1E1A17"/></g></g></svg></div><div style="font:400 26px Baloo;color:var(--grey)">بروستد · كرسبي · مشاوي · السالمية وحولي</div></div>
   <span style="font:500 24px Inter;color:var(--grey)">20-30 min</span>
  </div>
  <div style="position:absolute;top:660px;right:80px;left:80px;display:flex;gap:22px;justify-content:space-between">
@@ -126,8 +121,7 @@ h2{position:absolute;top:140px;right:80px;left:80px;font:400 84px/1.15 Lalezar}
  <div class="cnt" style="color:#a89d92">05 / 05</div>
  <div style="position:absolute;top:150px;left:80px;right:80px;height:560px;border-radius:12px;overflow:hidden;background:repeating-linear-gradient(180deg,#2c2622 0 40px,#e9dccb 40px 80px)">
   <div style="position:absolute;top:60px;left:50px;right:50px;height:180px;background:var(--red);border-radius:16px;display:flex;align-items:center;justify-content:center;gap:28px;box-shadow:0 0 60px rgba(215,38,30,.6)">
-   <div style="width:120px;height:120px;border-radius:50%;background:var(--cream);display:grid;place-items:center"><svg style="width:92px;height:92px;color:var(--red);--comb:var(--char);--eye:var(--cream)"><use href="#rooster"/></svg></div>
-   <span style="font:400 110px Lalezar;color:var(--cream)">بروستد الشام</span></div>
+   <svg viewBox="-180 -560 5147 900" width="720" height="125" style="display:block"><g transform="scale(1,-1)"><path d="M500 173Q500 119 487.0 85.5Q474 52 446 33Q419 14 377.0 6.0Q335 -2 270 -2Q232 -2 185 1Q187 -70 196.5 -141.0Q206 -212 219 -262Q197 -274 150.5 -281.5Q104 -289 61 -289L56 -285Q30 -163 30 -31Q30 22 34 61Q41 95 70.0 135.0Q99 175 128 184L168 182Q167 188 167 200Q167 241 187.5 282.5Q208 324 249.0 352.0Q290 380 348 380Q423 380 461.5 323.5Q500 267 500 173ZM420 189Q417 202 398.5 212.5Q380 223 351 223Q323 223 296.5 213.0Q270 203 261 177Q291 172 326 172Q360 172 387.5 177.0Q415 182 420 189Z" transform="translate(-80,0)" fill="#FFF4E2"/><path d="M271 93Q271 45 265.0 22.5Q259 0 244 0Q189 0 137.5 7.0Q86 14 51 29Q42 65 36 354L30 557L191 566Q200 417 200 292Q200 254 198 190Q223 186 244 186Q260 186 265.5 163.0Q271 140 271 93Z" transform="translate(450,0)" fill="#FFF4E2"/><path d="M750 93Q750 45 744.0 22.5Q738 0 723 0Q633 0 594 60H585Q570 31 546.5 15.5Q523 0 497 0Q470 0 445.0 15.5Q420 31 405 60H396Q373 31 338.5 15.5Q304 0 265 0Q226 0 192.0 15.0Q158 30 135 60H126Q104 33 70.5 16.5Q37 0 0 0Q-15 0 -21.0 22.5Q-27 45 -27 93Q-27 140 -21.5 163.0Q-16 186 0 186Q109 186 123 294H206Q210 231 228.0 205.5Q246 180 278 180Q322 180 343.5 212.5Q365 245 377 292L461 279Q460 271 460 257Q460 220 473.5 201.0Q487 182 509 182Q561 182 566 294H650Q650 251 654.0 229.5Q658 208 673.5 197.0Q689 186 723 186Q739 186 744.5 163.0Q750 140 750 93ZM291 570Q294 582 306.0 603.0Q318 624 332.5 640.0Q347 656 358 656Q374 656 406.5 633.0Q439 610 442 597Q444 583 421.0 550.0Q398 517 382 506Q364 514 334.0 535.0Q304 556 291 570ZM465 362Q448 369 419.0 388.5Q390 408 374 424Q364 406 348.0 387.5Q332 369 322 362Q303 370 271.5 392.0Q240 414 227 429Q232 449 255.5 482.5Q279 516 295 519Q309 522 342.5 499.0Q376 476 384 460Q397 484 413.0 501.5Q429 519 441 519Q458 519 491.5 494.5Q525 470 528 456Q530 441 506.0 407.0Q482 373 465 362Z" transform="translate(694,0)" fill="#FFF4E2"/><path d="M255 223Q255 164 246.0 115.0Q237 66 214 25Q145 3 0 0Q-15 0 -21.0 22.5Q-27 45 -27 93Q-27 140 -21.5 163.0Q-16 186 0 186Q66 186 111 190Q109 250 101.5 333.0Q94 416 86 498L80 557L241 566Q255 332 255 223Z" transform="translate(1417,0)" fill="#FFF4E2"/><path d="M37 2Q42 82 42 168Q42 329 30 557L192 566Q205 374 205 202Q205 93 201 25Q180 13 134.0 5.5Q88 -2 43 -3Z" transform="translate(1712,0)" fill="#FFF4E2"/><path d="M517 93Q517 45 511.0 22.5Q505 0 490 0Q451 0 410.5 19.5Q370 39 335 78Q323 59 298 23Q272 11 229.5 3.0Q187 -5 138 -5Q77 -5 30 8Q34 100 63 186Q115 181 152 181Q211 181 262 192Q208 288 142 373L280 490Q316 439 338.5 393.0Q361 347 391 275Q407 238 419.0 220.0Q431 202 447.0 194.0Q463 186 490 186Q506 186 511.5 163.0Q517 140 517 93Z" transform="translate(2217,0)" fill="#FFF4E2"/><path d="M418 93Q418 45 412.0 22.5Q406 0 391 0Q289 0 236 70H227Q206 40 168 25Q131 10 95.0 5.0Q59 0 0 0Q-15 0 -21.0 22.5Q-27 45 -27 93Q-27 140 -21.5 163.0Q-16 186 0 186Q55 186 92.0 193.0Q129 200 159.0 223.0Q189 246 208 292L292 279Q291 271 291 257Q291 215 313.0 200.5Q335 186 391 186Q407 186 412.5 163.0Q418 140 418 93ZM295 362Q276 370 247.0 389.5Q218 409 204 425Q194 407 178.0 388.0Q162 369 152 362Q132 371 101.0 392.5Q70 414 57 429Q63 450 87.0 485.0Q111 520 127 520Q143 520 175.0 497.5Q207 475 214 460Q228 485 243.0 502.5Q258 520 270 520Q286 520 320.5 495.5Q355 471 358 457Q360 442 336.0 408.0Q312 374 295 362Z" transform="translate(2707,0)" fill="#FFF4E2"/><path d="M745 210Q745 157 734.5 109.0Q724 61 704 29Q636 -3 572 -3Q525 -3 488.5 15.5Q452 34 430 70H421Q399 34 364.5 14.5Q330 -5 288 -5Q249 -5 214.5 12.5Q180 30 160 60H151Q118 23 83.5 11.5Q49 0 0 0Q-15 0 -21.0 22.5Q-27 45 -27 93Q-27 140 -21.5 163.0Q-16 186 0 186Q41 186 68.5 191.5Q96 197 119.0 220.5Q142 244 148 294H231Q236 180 303 180Q337 180 363.5 207.0Q390 234 403 292L487 279Q485 261 485 253Q485 176 550 176Q571 176 603 185Q594 223 581.5 260.0Q569 297 566 305L726 342Q745 285 745 210Z" transform="translate(3098,0)" fill="#FFF4E2"/><path d="M332 93Q332 45 326.0 22.5Q320 0 305 0Q278 0 231 8Q212 -44 177 -121Q154 -171 132.5 -210.5Q111 -250 106 -256Q69 -243 18 -207Q-24 -178 -45 -154Q15 -72 60 7Q110 96 142 195L151 201Q193 192 237.5 189.0Q282 186 305 186Q321 186 326.5 163.0Q332 140 332 93Z" transform="translate(4310,0)" fill="#FFF4E2"/><path d="M242 211Q242 157 231.5 109.0Q221 61 201 29Q110 0 0 0Q-15 0 -21.0 22.5Q-27 45 -27 93Q-27 140 -21.5 163.0Q-16 186 0 186Q63 186 97 195Q87 237 63 305L224 342Q242 285 242 211ZM169 -137Q173 -152 146.5 -189.5Q120 -227 102 -239Q81 -231 47.0 -207.5Q13 -184 0 -167Q3 -154 15.5 -131.5Q28 -109 44.0 -90.5Q60 -72 72 -70Q83 -68 105.5 -80.0Q128 -92 147.5 -109.5Q167 -127 169 -137Z" transform="translate(4615,0)" fill="#FFF4E2"/><g transform="translate(3953,0)"><path d="M347 154Q342 45 288.0 -64.0Q234 -173 171 -248Q139 -236 91.5 -204.5Q44 -173 20 -146Q23 -142 27.5 -138.0Q32 -134 36 -129Q120 -42 162 21Q103 34 63.0 70.5Q23 107 23 162Q23 211 50.0 262.5Q77 314 118.5 347.5Q160 381 201 381Q250 381 284.0 346.5Q318 312 334.0 259.0Q350 206 347 154ZM227 180Q249 180 259 181Q242 202 216.5 215.5Q191 229 167 229Q149 229 137.5 221.5Q126 214 126 200Q132 189 177 183Q201 180 227 180Z" fill="#FFF4E2"/><ellipse cx="192" cy="352" rx="112" ry="44" fill="#FFF4E2"/><circle cx="105" cy="352" r="50" fill="#FFF4E2"/><circle cx="190" cy="418" r="58" fill="#FFF4E2"/><circle cx="280" cy="388" r="46" fill="#FFF4E2"/><path d="M48 248 L-78 196 L38 150 Z" fill="#F2B53A"/><circle cx="168" cy="208" r="15" fill="#1E1A17"/></g></g></svg></div>
   <div style="position:absolute;bottom:0;left:120px;right:120px;height:260px;background:linear-gradient(#f8d58a,#e3a24f);border:14px solid #2c2622;border-bottom:0;border-radius:18px 18px 0 0"></div>
  </div>
  <div style="position:absolute;top:800px;right:80px;left:80px;font:400 84px/1.25 Lalezar">هذا مفهوم…<br>بس تخيل لو صار حقيقة.</div>

diff --git a/concepts/2026-11-05-broasted-alsham/mklogo.py b/concepts/2026-11-05-broasted-alsham/mklogo.py
@@ -1,0 +1,42 @@
+import json
+S=json.load(open('shaped.json'))
+waw=[i for i in S['بروستد']['items'] if i['name']=='uni0648'][0]
+def mark(fill,beak,pupil):
+    # rooster built on the waw glyph (glyph units, y up)
+    return (f'<path d="{waw["d"]}" fill="{fill}"/>'
+      f'<ellipse cx="192" cy="352" rx="112" ry="44" fill="{fill}"/><circle cx="105" cy="352" r="50" fill="{fill}"/><circle cx="190" cy="418" r="58" fill="{fill}"/><circle cx="280" cy="388" r="46" fill="{fill}"/>'
+      f'<path d="M48 248 L-78 196 L38 150 Z" fill="{beak}"/>'
+      f'<circle cx="168" cy="208" r="15" fill="{pupil}"/>')
+def word(t,fill,skip_waw=False,dx=0,dy=0):
+    s=''
+    for i in S[t]['items']:
+        if skip_waw and i['name']=='uni0648': continue
+        s+=f'<path d="{i["d"]}" transform="translate({i["x"]+dx},{dy})" fill="{fill}"/>'
+    return s
+def lockup1(fill,beak,pupil):
+    # one line: الشام (left) + space + بروستد (right) ; visual LTR
+    w2=S['الشام']['w']; gap=260
+    s=word('الشام',fill,dx=-80)
+    for i in S['بروستد']['items']:
+        if i['name']=='uni0648': continue
+        sh=-80 if i['x']<waw['x'] else 0
+        s+=f'<path d="{i["d"]}" transform="translate({i["x"]+w2+gap+sh},0)" fill="{fill}"/>'
+    s+=f'<g transform="translate({w2+gap+waw["x"]},0)">{mark(fill,beak,pupil)}</g>'
+    W=w2+gap+S['بروستد']['w']
+    return f'<g transform="scale(1,-1)">{s}</g>',W
+def symbol(fill,beak,pupil):
+    return f'<g transform="scale(1,-1)">{mark(fill,beak,pupil)}</g>'
+if __name__=='__main__':
+    R='#D7261E';C='#FFF4E2';K='#1E1A17';G='#F2B53A'
+    l1,W=lockup1(R,G,K); l2,_=lockup1(C,G,K)
+    sym=symbol(R,G,K); symc=symbol(C,G,R)
+    html=f'''<!doctype html><html><meta charset="utf-8"><body style="margin:0;background:#ddd;width:1600px;font-family:sans-serif">
+<div style="display:flex;flex-wrap:wrap">
+<div style="width:533px;height:560px;background:{C};display:grid;place-items:center"><svg viewBox="-110 -500 500 780" width="300" height="468">{sym}</svg></div>
+<div style="width:534px;height:560px;background:{R};display:grid;place-items:center"><svg viewBox="-110 -500 500 780" width="300" height="468">{symc}</svg></div>
+<div style="width:533px;height:560px;background:{C};display:grid;place-items:center"><div style="width:300px;height:300px;border-radius:70px;background:{R};display:grid;place-items:center"><svg viewBox="-110 -500 500 780" width="170" height="265">{symc}</svg></div></div>
+<div style="width:1600px;height:400px;background:{C};display:grid;place-items:center"><svg viewBox="-100 -560 {W+200} 900" width="1300" height="{int(1300*900/(W+200))}">{l1}</svg></div>
+<div style="width:1600px;height:400px;background:{R};display:grid;place-items:center"><svg viewBox="-100 -560 {W+200} 900" width="1300" height="{int(1300*900/(W+200))}">{l2}</svg></div>
+</div></body></html>'''
+    open('logosheet.html','w').write(html)
+    json.dump({'lock_red':l1,'lock_cream':l2,'W':W,'sym_red':sym,'sym_cream':symc},open('logo.json','w'),ensure_ascii=False)

diff --git a/concepts/2026-11-05-broasted-alsham/README.md b/concepts/2026-11-05-broasted-alsham/README.md
@@ -3,7 +3,7 @@
 مفهوم غير رسمي للعرض فقط، مو تابع لبروستد الشام. للتواصل الخاص مع صاحب المطعم قبل أي نشر.
 
 - 5 سلايدات 1080×1440: الغلاف، الرمز والألوان، البوكس، التطبيقات والريلز، الختام.
-- الرمز: نفس فكرة الديك بشكل هندسي أنظف، سطر نص واحد بدل 3.
+- الرمز (v2): الديك طالع من حرف الواو بكلمة «بروستد» (عين الواو = العين، الذيل = الدلّاية، + عرف ومنقار). ملف الشعار: mklogo.py + logosheet.png.
 - «الأبلق»: خطوط سودا وبيضا (حجر الشام) توقيع البراند.
 - الألوان: أحمر #D7261E، فحمي #1E1A17، ذهبي #F2B53A، كريمي #FFF4E2.
 - الخطوط: Lalezar للشعار والعناوين، Baloo Bhaijaan 2 للنصوص.
